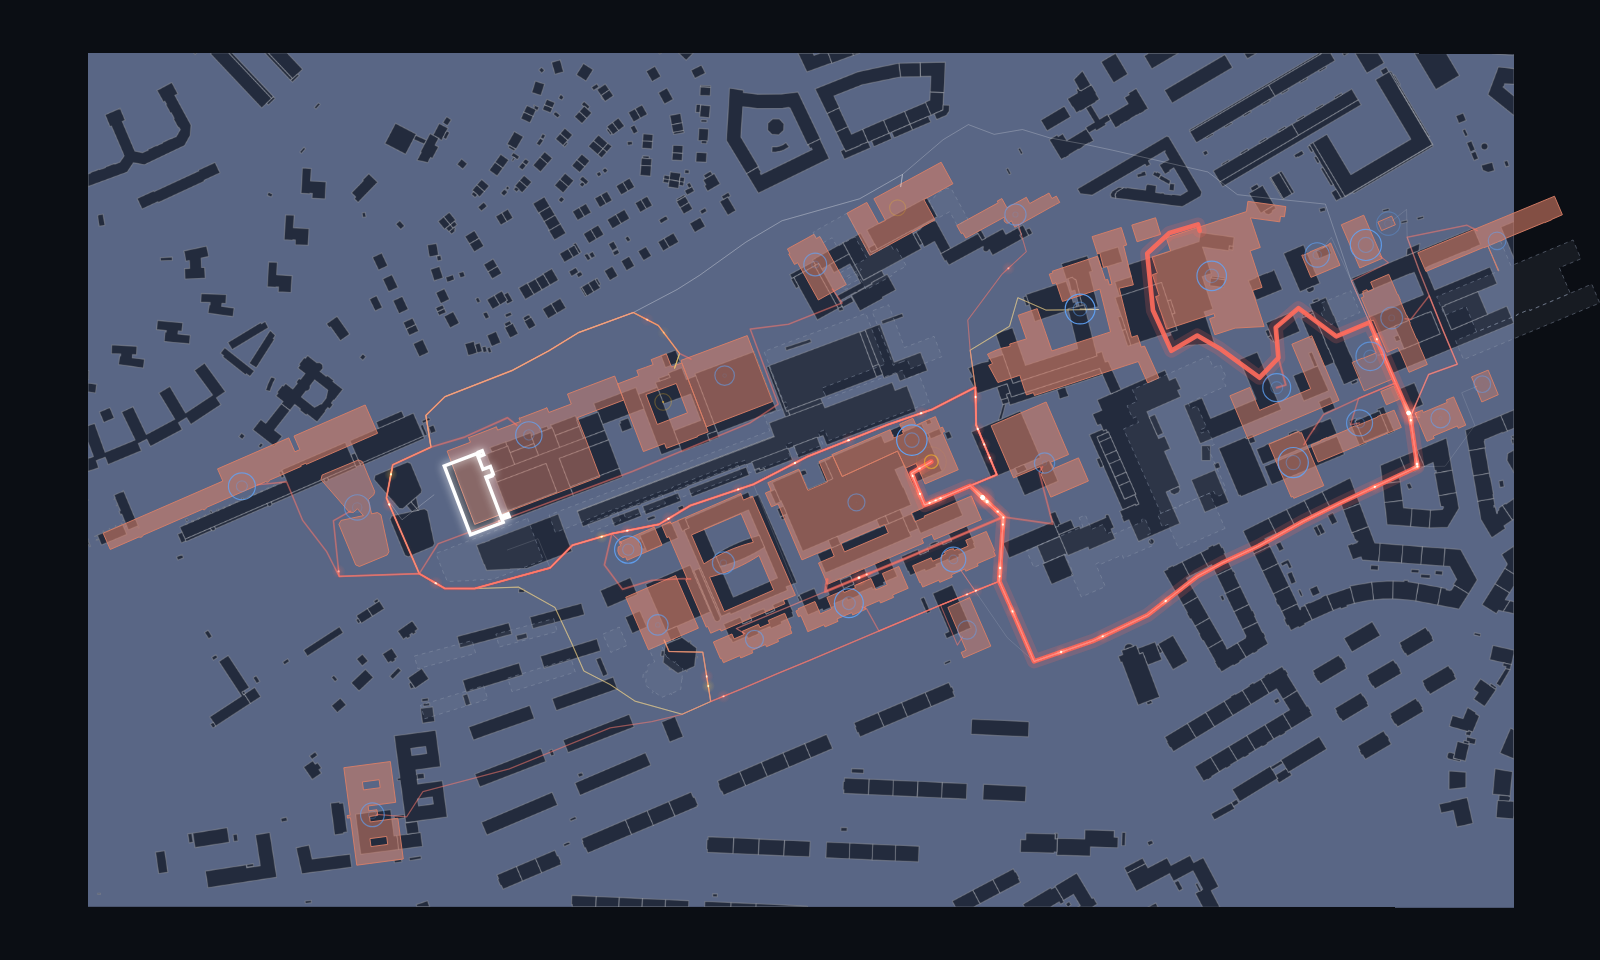
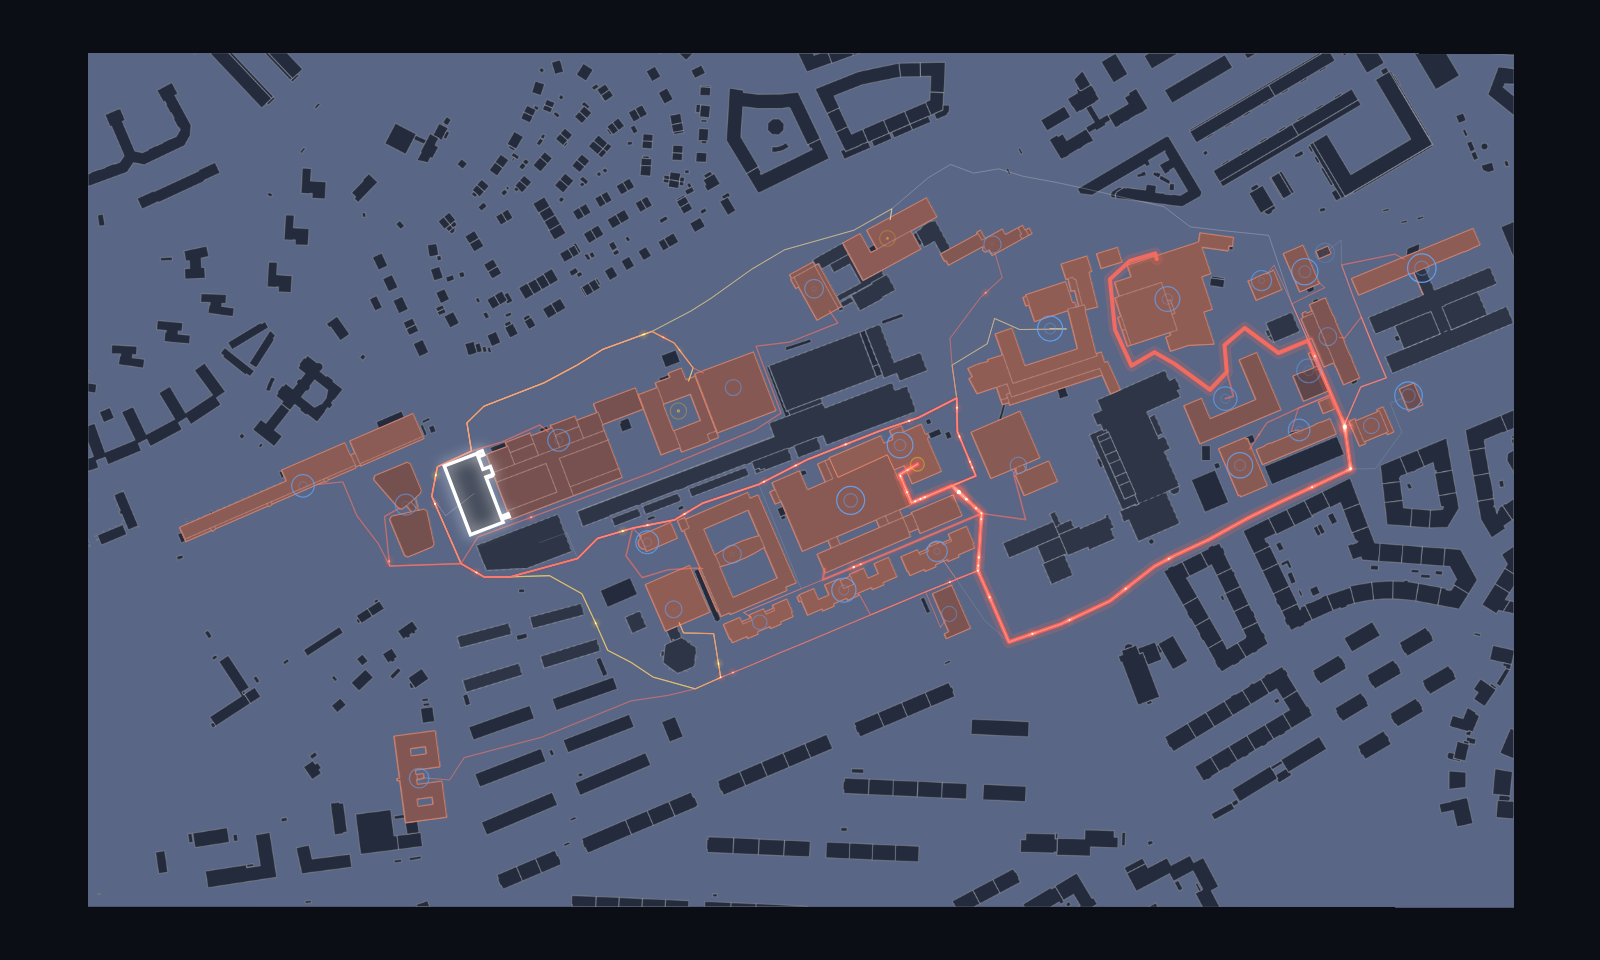
ECOM: draw on a canvas that follows the map, so buildings sit on their footprints
The decoration element covers the whole window, which is larger than the
table when the map has margins, so the drawing was scaled about 12% too
large. Retook the table screenshot.

Claude-Session: https://claude.ai/code/session_0138i3Jy96ft3KJSwCBQDYE3

diff --git a/sites/chalmers/layers/ecom/src/index.ts b/sites/chalmers/layers/ecom/src/index.ts
@@ -14,8 +14,8 @@
 //     this layer publishes, and its own day clock widget (#353).
 //   - a controller stage of panels in layer.json (#357): map to pick on (#355), the clock, the
 //     hour slider (#354), self-sufficiency and the comparison with going it alone.
-import { canvasSurface, defineLayer, loadSiteData, networkData, networkLook, readShapes, resolvePalette, tableFrame, withAlpha } from '@mrstudio/sdk';
-import type { GeoJsonCollection, LayerManifest, NetworkLook, Rgba, Spot } from '@mrstudio/sdk';
+import { defineLayer, loadSiteData, networkData, networkLook, readShapes, resolvePalette, tableFrame, withAlpha } from '@mrstudio/sdk';
+import type { GeoJsonCollection, LayerManifest, NetworkLook, Rgba, Spot, View } from '@mrstudio/sdk';
 
 import manifest from '../layer.json';
 import { dayClock } from './day-clock.ts';
@@ -58,7 +58,15 @@ export default defineLayer<Params>({
   async table(ctx) {
     const frame = tableFrame(ctx.site);
     const palette = resolvePalette(ctx.site.palette);
-    const surface = canvasSurface(ctx.map.addElement(), frame);
+    // A canvas that follows the map, so the drawing lands where the map puts the table
+    // (a decoration covers the whole window, which is larger than the table when it has margins).
+    const overlay = ctx.map.addCanvas('ecom');
+    const surface = {
+      begin: (time: number): View => {
+        overlay.clear();
+        return { pen: overlay.context, scale: overlay.pixelsPerMetre, time, detail: 1, toPx: (p) => overlay.project(frame.toLonLat(p)) };
+      },
+    };
     const model = ctx.service('ecom');
     const saved: Day = {
       buildings: await loadSiteData<GeoJsonCollection>(ctx.site, 'ecom_buildings'),
